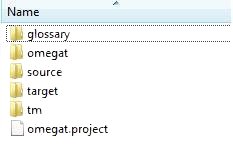
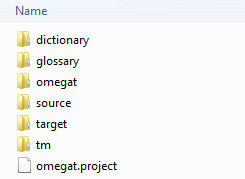
Mention of the dictionary folder
git-svn-id: https://omegat.svn.sourceforge.net/svnroot/omegat/trunk@2472 b0d8beef-cb45-0410-a8e4-c0d495c3b779

Changed region(s): [[0.0, 0.0, 1.0, 0.9863], [0.4807, 0.0, 0.5107, 0.0548]]

diff --git a/docs/en/filesAndDirectories.html b/docs/en/filesAndDirectories.html
@@ -82,14 +82,11 @@
   translation project <b>Example_Project</b> created with the default settings
   will be created as a new subfolder with the following structure:</p>
 
-  <p>&nbsp;</p>
-
-  <ul>
-    <li><img src="images/Omegatproject.png" name="grafika1" alt=
-    "OmegaT Project" id="grafika1" align="left" border="0"><br clear=
-    "left"></li>
-  </ul>The <b>glossary</b> subfolder is empty, when starting a new project. It
-  is the place for your glossaries, if you have any available for the project.
+  <p>&nbsp;</p><img src="images/Omegatproject.png" name="grafika1" alt=
+  "OmegaT Project" id="grafika1" align="left" border="0"><br clear="left">
+  The <b>dictionary</b> and <b>glossary</b>subfolders are empty, when
+  starting a new project. It is the place for your dictionaries and glossaries,
+  if you have any available for the project.
 
   <h3>Omegat</h3>
 
